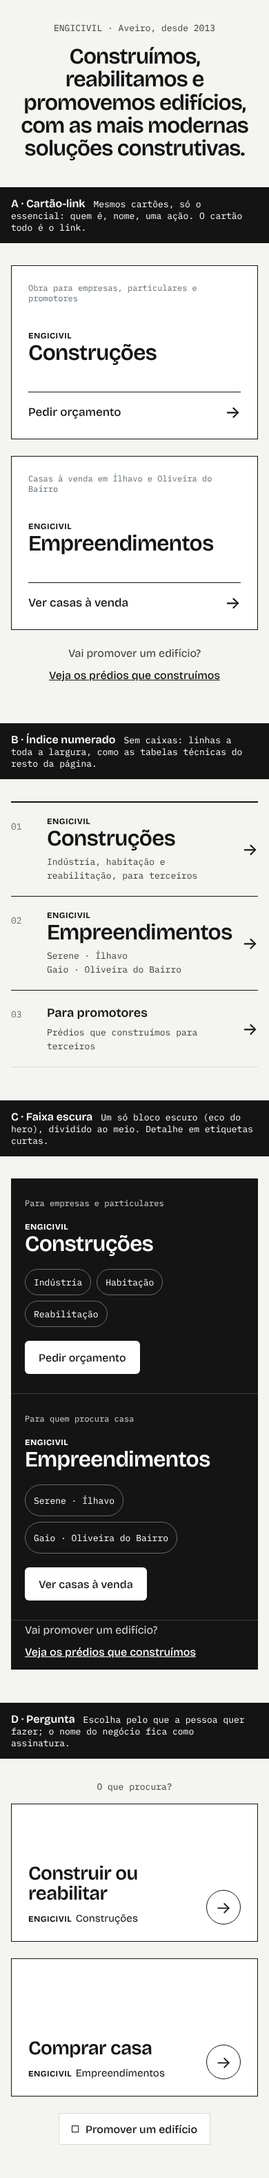
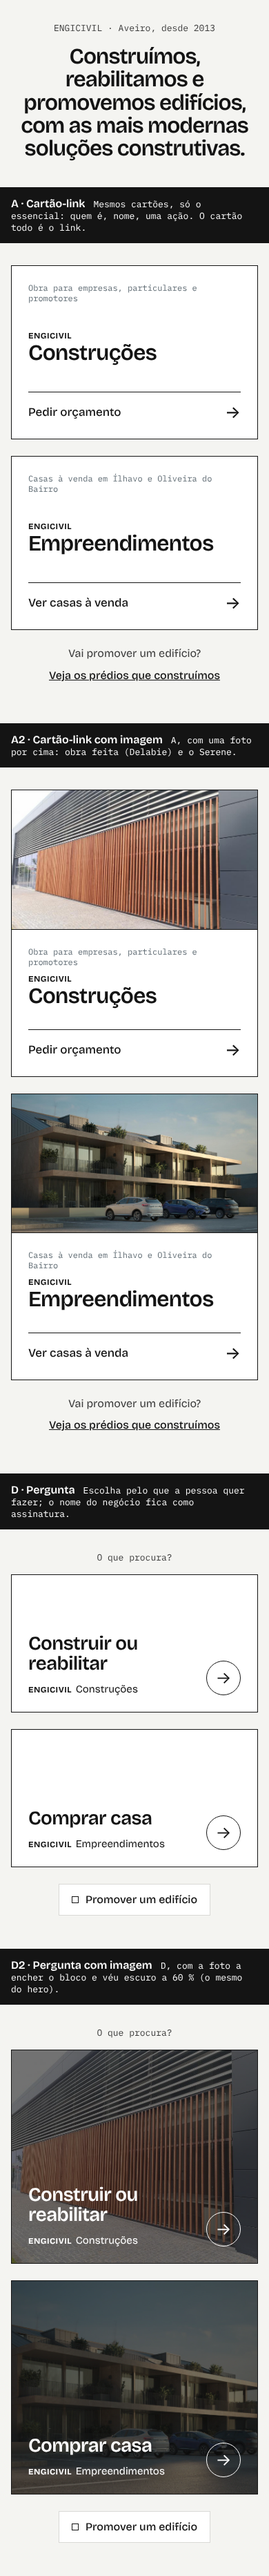
G: variantes A e D com imagem (A2, D2); saem B e C
Claude-Session: https://claude.ai/code/session_012w4cPzH39V17MdXqARYqPS

diff --git a/prototypes/g/variantes-negocios/index.html b/prototypes/g/variantes-negocios/index.html
@@ -30,40 +30,6 @@
 .va-third { margin: -16px 0 0; text-align: center; font-family: var(--f-ui); color: var(--g700); }
 .va-third a { display: inline-flex; align-items: center; min-height: 44px; font-weight: 500; color: var(--ink); }
 
-/* ---------- B · Índice numerado ---------- */
-.vb { list-style: none; margin: 0; padding: 0; border-top: 2px solid var(--ink); }
-.vb li { border-bottom: 1px solid var(--ink); }
-.vb a { display: grid; grid-template-columns: 64px minmax(0, 1fr) minmax(0, 0.9fr) auto; align-items: center; gap: 24px; padding: 28px 0; color: var(--ink); text-decoration: none; }
-.vb a:hover { background: var(--white); }
-.vb a:hover .arrow { transform: translateX(6px); }
-.vb__n { font-family: var(--f-mono); font-size: 13px; color: var(--g500); padding-left: 8px; }
-.vb__name { display: flex; flex-direction: column; gap: 2px; font-family: var(--f-ui); }
-.vb__name strong { font-size: clamp(2rem, 3.6vw, 3.25rem); line-height: 1; font-weight: 600; letter-spacing: -0.02em; }
-.vb__meta { font-family: var(--f-mono); font-size: 13px; line-height: 1.5; color: var(--g700); }
-.vb__cta { display: flex; align-items: center; gap: 12px; padding-right: 8px; font-family: var(--f-ui); font-weight: 500; white-space: nowrap; }
-.vb__cta .arrow { font-size: 1.5rem; }
-.vb li.vb--third { border-bottom-color: var(--g200); }
-.vb--third a { padding: 14px 0; }
-.vb--third .vb__name strong { font-size: 1.125rem; letter-spacing: 0; }
-
-/* ---------- C · Faixa escura ---------- */
-.vc { background: var(--ink); color: var(--white); }
-.vc__grid { display: grid; grid-template-columns: repeat(2, minmax(0, 1fr)); }
-.vc__col { display: flex; flex-direction: column; gap: 20px; padding: 40px; }
-.vc__col + .vc__col { border-left: 1px solid var(--g700); }
-.vc .kicker { color: var(--g200); }
-.vc__title { margin: 0; display: flex; flex-direction: column; gap: 2px; font-family: var(--f-ui); }
-.vc__title strong { font-size: clamp(2rem, 3.4vw, 3rem); line-height: 1; font-weight: 600; letter-spacing: -0.02em; }
-.vc__chips { list-style: none; margin: 0; padding: 0; display: flex; flex-wrap: wrap; gap: 8px; }
-.vc__chips li > * { display: inline-flex; align-items: center; min-height: 36px; padding: 0 12px; border: 1px solid var(--g500); border-radius: 999px; font-family: var(--f-mono); font-size: 13px; color: var(--white); }
-.vc__chips a { min-height: 44px !important; text-decoration: none; }
-.vc__chips a:hover { background: var(--white); color: var(--ink); }
-.vc .btn { align-self: flex-start; margin-top: auto; background: var(--white); color: var(--ink); }
-.vc .btn:hover { background: var(--g200); color: var(--ink); }
-.vc a:focus-visible { outline-color: var(--white); }
-.vc__third { margin: 0; padding: 4px 40px; border-top: 1px solid var(--g700); font-family: var(--f-ui); color: var(--g200); }
-.vc__third a { display: inline-flex; align-items: center; min-height: 44px; font-weight: 500; color: var(--white); }
-
 /* ---------- D · Pergunta ---------- */
 .vd-q { margin: 0; text-align: center; font-family: var(--f-mono); font-size: 13px; color: var(--g700); }
 .vd { display: grid; grid-template-columns: repeat(2, minmax(0, 1fr)); gap: var(--col-gap); margin-top: -24px; }
@@ -78,24 +44,36 @@
 .vd-third a { display: inline-flex; align-items: center; gap: 10px; min-height: 44px; padding: 0 18px; border: 1px solid var(--g200); background: var(--white); font-family: var(--f-ui); font-weight: 500; color: var(--ink); text-decoration: none; }
 .vd-third a:hover { border-color: var(--ink); }
 
-@media (prefers-reduced-motion: reduce) { .arrow, .vd-tile__circle { transition: none; } }
+/* ---------- A2 · Cartão-link com imagem ---------- */
+.va-card--img { padding: 0; gap: 0; overflow: hidden; }
+.va-card__media { position: relative; aspect-ratio: 16 / 9; overflow: hidden; border-bottom: 1px solid var(--ink); background: var(--g200); }
+.va-card__media img { display: block; width: 100%; height: 100%; object-fit: cover; transition: transform .5s ease; }
+.va-card--img:hover .va-card__media img { transform: scale(1.03); }
+.va-card__inner { display: flex; flex-direction: column; gap: 40px; padding: 28px; }
+.va-card__head { display: flex; flex-direction: column; gap: 10px; }
+
+/* ---------- D2 · Pergunta com imagem (foto de fundo + véu, como o hero) ---------- */
+.vd-tile--img { position: relative; isolation: isolate; min-height: 360px; overflow: hidden; color: var(--white); border-color: var(--ink); }
+.vd-tile--img img { position: absolute; inset: 0; z-index: -2; width: 100%; height: 100%; object-fit: cover; transition: transform .5s ease; }
+.vd-tile--img::before { content: ""; position: absolute; inset: 0; z-index: -1; background: rgba(20, 20, 20, .6); transition: background .2s ease; }
+.vd-tile--img:hover { background: transparent; }
+.vd-tile--img:hover::before { background: rgba(20, 20, 20, .72); }
+.vd-tile--img:hover img { transform: scale(1.03); }
+.vd-tile--img:hover, .vd-tile--img:hover * { color: var(--white); }
+.vd-tile--img:focus-visible { outline-offset: 3px; }
+
+@media (prefers-reduced-motion: reduce) { .arrow, .vd-tile__circle, .va-card__media img, .vd-tile--img img { transition: none; } }
 
 @media (max-width: 760px) {
   .v-sec { padding: 32px 0 48px; }
-  .va, .vd, .vc__grid { grid-template-columns: minmax(0, 1fr); }
+  .va, .vd { grid-template-columns: minmax(0, 1fr); }
   .va-card { gap: 40px; padding: 24px; }
-  .vb a { grid-template-columns: 40px minmax(0, 1fr) auto; grid-template-areas: "n name cta" ". meta cta"; gap: 8px 12px; padding: 20px 0; }
-  .vb__n { grid-area: n; align-self: start; padding: 6px 0 0; }
-  .vb__name { grid-area: name; }
-  .vb__meta { grid-area: meta; }
-  .vb__cta { grid-area: cta; padding-right: 0; }
-  .vb__cta span:not(.arrow) { display: none; }
-  .vc__col { padding: 28px 20px; }
-  .vc__col + .vc__col { border-left: 0; border-top: 1px solid var(--g700); }
-  .vc__third { padding: 4px 20px; }
   .vd { margin-top: -24px; }
   .vd-tile { min-height: 150px; padding: 24px; }
   .vd-tile__circle { width: 48px; height: 48px; }
+  .va-card--img { padding: 0; gap: 0; }
+  .va-card__inner { gap: 32px; padding: 24px; }
+  .vd-tile--img { min-height: 260px; }
 }
 </style>
 </head>
@@ -132,54 +110,33 @@
   </div>
 </section>
 
-<!-- ===== B ===== -->
-<div class="v-label"><div class="wrap"><b>B · Índice numerado</b>Sem caixas: linhas a toda a largura, como as tabelas técnicas do resto da página.</div></div>
+<!-- ===== A2 ===== -->
+<div class="v-label"><div class="wrap"><b>A2 · Cartão-link com imagem</b>A, com uma foto por cima: obra feita (Delabie) e o Serene.</div></div>
 <section class="v-sec">
   <div class="wrap">
-    <ol class="vb">
-      <li><a href="#construcoes">
-        <span class="vb__n">01</span>
-        <span class="vb__name"><span class="sb-pre">ENGICIVIL</span><strong>Construções</strong></span>
-        <span class="vb__meta">Indústria, habitação e reabilitação, para terceiros</span>
-        <span class="vb__cta"><span>Pedir orçamento</span> <span class="arrow" aria-hidden="true">→</span></span>
-      </a></li>
-      <li><a href="#empreendimentos">
-        <span class="vb__n">02</span>
-        <span class="vb__name"><span class="sb-pre">ENGICIVIL</span><strong>Empreendimentos</strong></span>
-        <span class="vb__meta">Serene · Ílhavo<br>Gaio · Oliveira do Bairro</span>
-        <span class="vb__cta"><span>Ver casas à venda</span> <span class="arrow" aria-hidden="true">→</span></span>
-      </a></li>
-      <li class="vb--third"><a href="#locais">
-        <span class="vb__n">03</span>
-        <span class="vb__name"><strong>Para promotores</strong></span>
-        <span class="vb__meta">Prédios que construímos para terceiros</span>
-        <span class="vb__cta"><span>Ver prédios</span> <span class="arrow" aria-hidden="true">→</span></span>
-      </a></li>
-    </ol>
-  </div>
-</section>
-
-<!-- ===== C ===== -->
-<div class="v-label"><div class="wrap"><b>C · Faixa escura</b>Um só bloco escuro (eco do hero), dividido ao meio. Detalhe em etiquetas curtas.</div></div>
-<section class="v-sec">
-  <div class="wrap">
-    <div class="vc">
-      <div class="vc__grid">
-        <div class="vc__col">
-          <span class="kicker">Para empresas e particulares</span>
-          <h2 class="vc__title"><span class="sb-pre">ENGICIVIL</span><strong>Construções</strong></h2>
-          <ul class="vc__chips"><li><span>Indústria</span></li><li><span>Habitação</span></li><li><span>Reabilitação</span></li></ul>
-          <a href="#contacto" class="btn">Pedir orçamento</a>
-        </div>
-        <div class="vc__col">
-          <span class="kicker">Para quem procura casa</span>
-          <h2 class="vc__title"><span class="sb-pre">ENGICIVIL</span><strong>Empreendimentos</strong></h2>
-          <ul class="vc__chips"><li><a href="#serene">Serene · Ílhavo</a></li><li><a href="#gaio">Gaio · Oliveira do Bairro</a></li></ul>
-          <a href="#empreendimentos" class="btn">Ver casas à venda</a>
-        </div>
-      </div>
-      <p class="vc__third">Vai promover um edifício? <a href="#locais">Veja os prédios que construímos</a></p>
+    <div class="va">
+      <a class="va-card va-card--img" href="#construcoes">
+        <span class="va-card__media"><img src="/img/portefolio/industria-e-servicos/requalificacao-de-unidade-industrial-delabie/delabie.jpg" alt=""></span>
+        <span class="va-card__inner">
+          <span class="va-card__head">
+            <span class="kicker">Obra para empresas, particulares e promotores</span>
+            <h2 class="va-card__title"><span class="sb-pre">ENGICIVIL</span><span class="va-card__name">Construções</span></h2>
+          </span>
+          <span class="va-card__foot">Pedir orçamento <span class="arrow" aria-hidden="true">→</span></span>
+        </span>
+      </a>
+      <a class="va-card va-card--img" href="#empreendimentos">
+        <span class="va-card__media"><img src="/img/empreendimentos/serene-condominium/edificio-serene-11.jpg" alt=""></span>
+        <span class="va-card__inner">
+          <span class="va-card__head">
+            <span class="kicker">Casas à venda em Ílhavo e Oliveira do Bairro</span>
+            <h2 class="va-card__title"><span class="sb-pre">ENGICIVIL</span><span class="va-card__name">Empreendimentos</span></h2>
+          </span>
+          <span class="va-card__foot">Ver casas à venda <span class="arrow" aria-hidden="true">→</span></span>
+        </span>
+      </a>
     </div>
+    <p class="va-third">Vai promover um edifício? <a href="#locais">Veja os prédios que construímos</a></p>
   </div>
 </section>
 
@@ -197,6 +154,33 @@
         <span class="vd-tile__circle" aria-hidden="true">→</span>
       </a>
       <a class="vd-tile" href="#empreendimentos">
+        <span class="vd-tile__text">
+          <span class="vd-tile__verb">Comprar casa</span>
+          <span class="vd-tile__biz"><span class="sb-pre">ENGICIVIL</span> Empreendimentos</span>
+        </span>
+        <span class="vd-tile__circle" aria-hidden="true">→</span>
+      </a>
+    </div>
+    <p class="vd-third"><a href="#locais"><span class="mark mark--open" aria-hidden="true"></span>Promover um edifício</a></p>
+  </div>
+</section>
+
+<!-- ===== D2 ===== -->
+<div class="v-label"><div class="wrap"><b>D2 · Pergunta com imagem</b>D, com a foto a encher o bloco e véu escuro a 60 % (o mesmo do hero).</div></div>
+<section class="v-sec">
+  <div class="wrap">
+    <p class="vd-q">O que procura?</p>
+    <div class="vd">
+      <a class="vd-tile vd-tile--img" href="#construcoes">
+        <img src="/img/portefolio/industria-e-servicos/requalificacao-de-unidade-industrial-delabie/delabie.jpg" alt="">
+        <span class="vd-tile__text">
+          <span class="vd-tile__verb">Construir ou reabilitar</span>
+          <span class="vd-tile__biz"><span class="sb-pre">ENGICIVIL</span> Construções</span>
+        </span>
+        <span class="vd-tile__circle" aria-hidden="true">→</span>
+      </a>
+      <a class="vd-tile vd-tile--img" href="#empreendimentos">
+        <img src="/img/empreendimentos/serene-condominium/edificio-serene-11.jpg" alt="">
         <span class="vd-tile__text">
           <span class="vd-tile__verb">Comprar casa</span>
           <span class="vd-tile__biz"><span class="sb-pre">ENGICIVIL</span> Empreendimentos</span>
